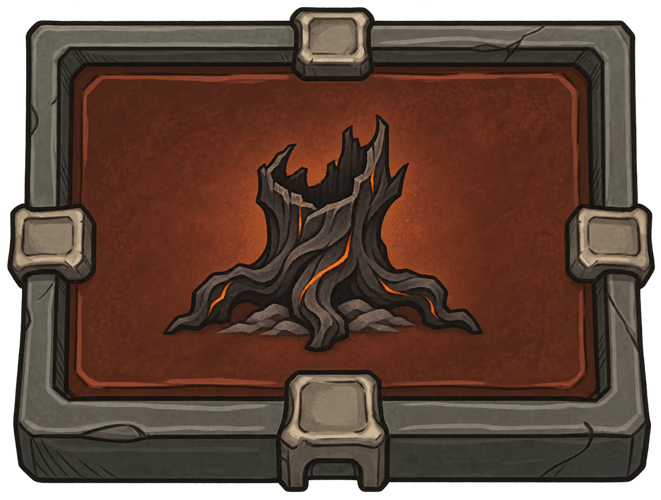
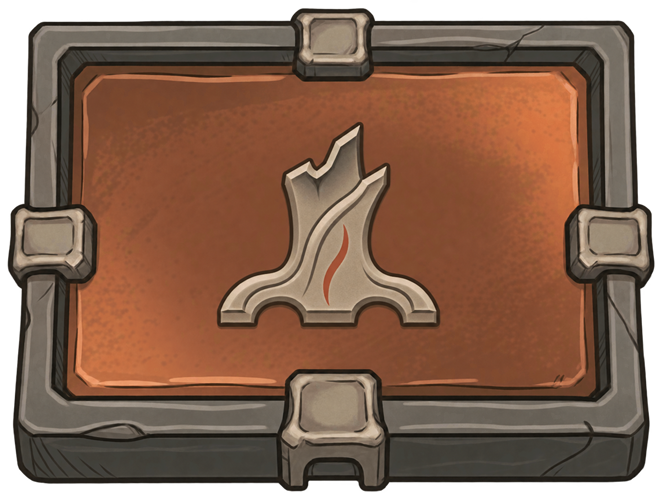
Match ruined World Tree glyphs to the original tile

diff --git a/docs/world_tree_assault_optional_event_design_20261120.md b/docs/world_tree_assault_optional_event_design_20261120.md
@@ -9,7 +9,7 @@
 - 일반 원정에서 기존 메인 사건과 보장 발견을 먼저 처리한 뒤 습격을 추첨한다. 적격 착지·벌목/방화·선택 대기와 확정 결과를 저장해 재접속 때 각각 이어간다.
 - 기존 책에서 벌목대와 방화단의 원화로 선택을 보여 준다. 겨울·지옥 폐허 원화는 습격 결과, 세계수 방문, 왕 추적에서 사용한다. 확실한 저지는 보유 카드 중 직접 고른 한 장을 소모하고 오염도를 최대 8 올린다. 위험한 저지는 카드 소모 없는 6면 주사위 판정이다. 결과 지역은 저장 즉시 반영하고, 확인하면 기존 지역 지도 위에서 원정을 계속한다.
 - 세계수가 쓰러진 겨울과 불탄 지옥에서는 세계수의 정화 기도가 중단된다. 폐허에서 전이문의 단서를 따라 마물의 왕을 추적할 수 있으며, 일반 세계에서는 기존 정화 기도를 이용할 수 있다.
-- 전환 후에도 타일·말 위치, 집과 주민, 퀘스트와 보스 진행을 이어간다. 겨울·지옥 보드 배경은 현행 기본 지도 기반으로 교체했다. 전장 배경은 일반·겨울·지옥 각 3장씩 사용한다. 세계수 타일은 벌목 뒤 얼어붙은 그루터기, 방화 뒤 불탄 뿌리로 바뀌며 언덕 이동 미리보기에도 같은 그림을 쓴다. 전환 연출과 Steam 데모 편입은 후속 작업이다.
+- 전환 후에도 타일·말 위치, 집과 주민, 퀘스트와 보스 진행을 이어간다. 겨울·지옥 보드 배경은 현행 기본 지도 기반으로 교체했다. 전장 배경은 일반·겨울·지옥 각 3장씩 사용한다. 세계수 타일은 기존 돌 테두리와 갈색 바탕을 기준으로 벌목 뒤 잘린 단면, 방화 뒤 갈라진 윗부분과 불씨를 새긴 나무 문양을 보여 준다. 언덕 이동 미리보기에도 같은 그림을 쓴다. 전환 연출과 Steam 데모 편입은 후속 작업이다.
 
 ## 0. 목적과 최상위 원칙 — 사용자 확정
 
